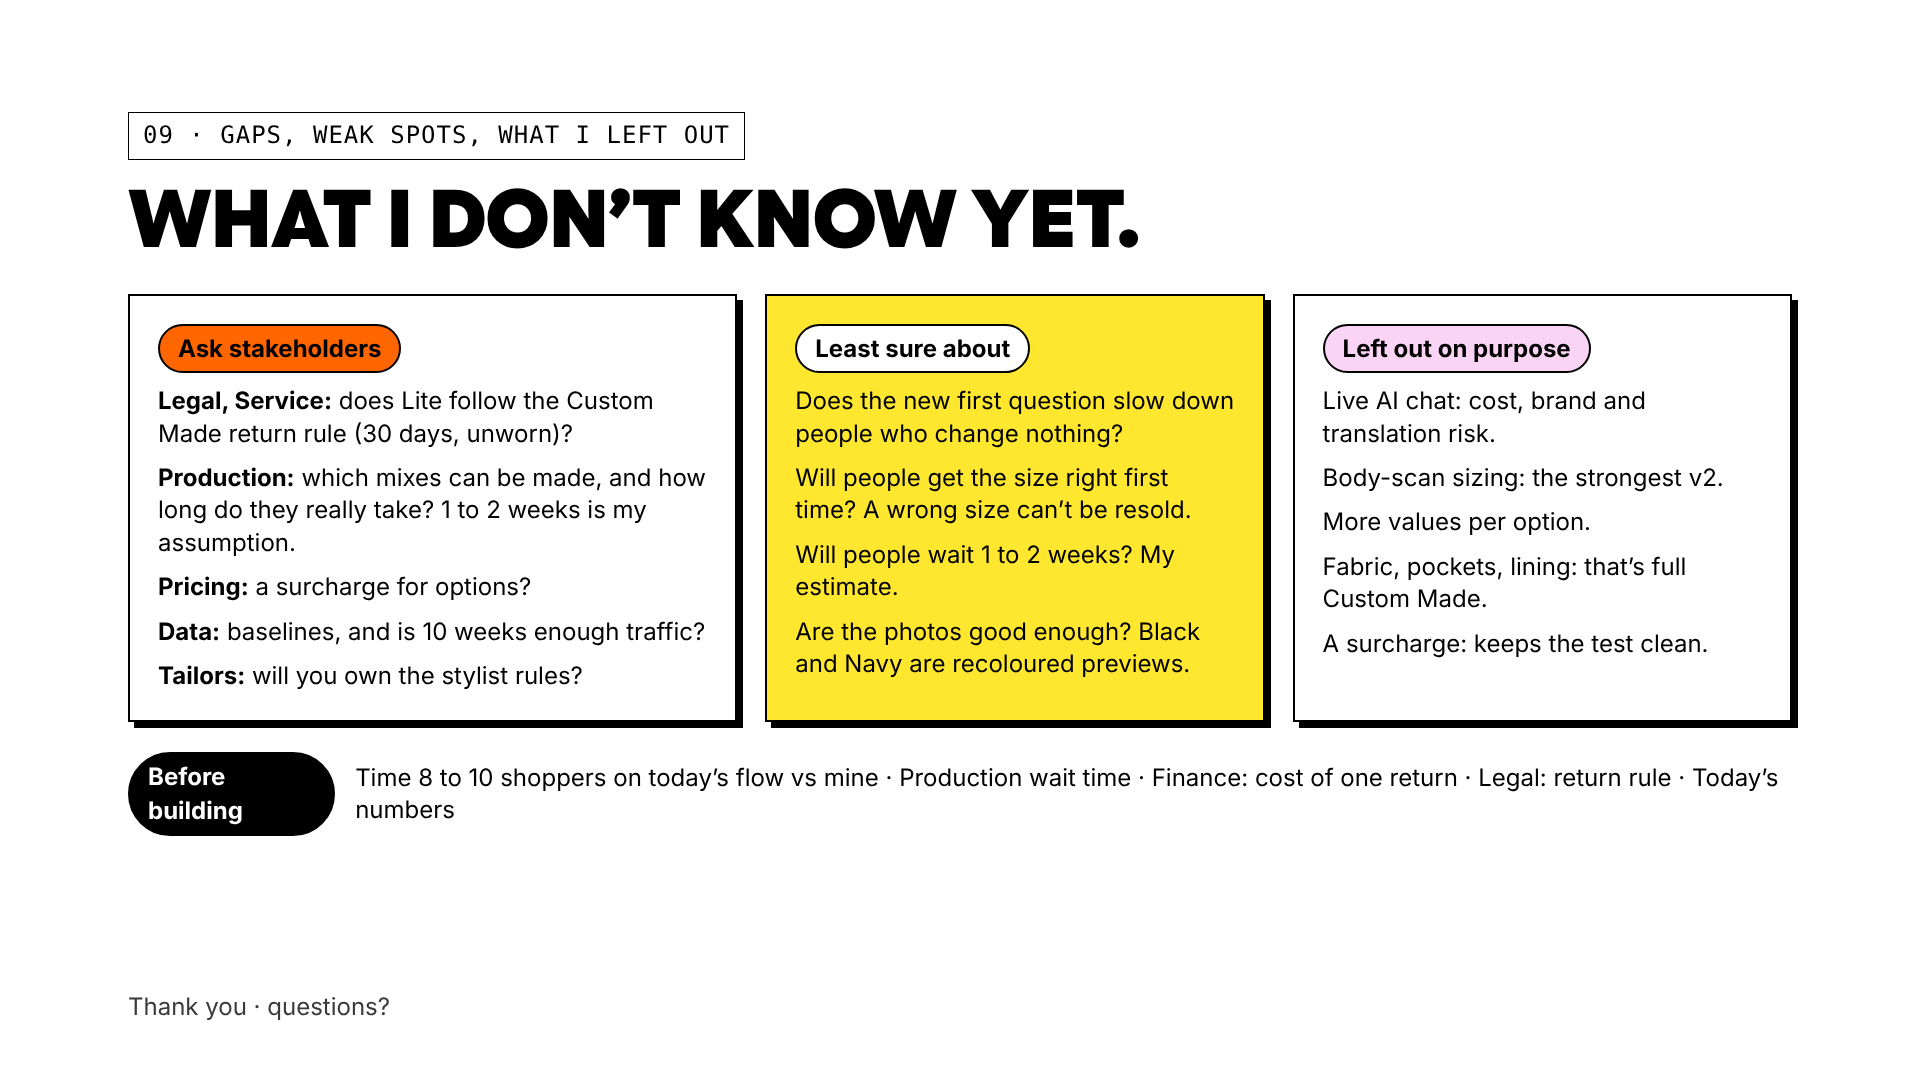
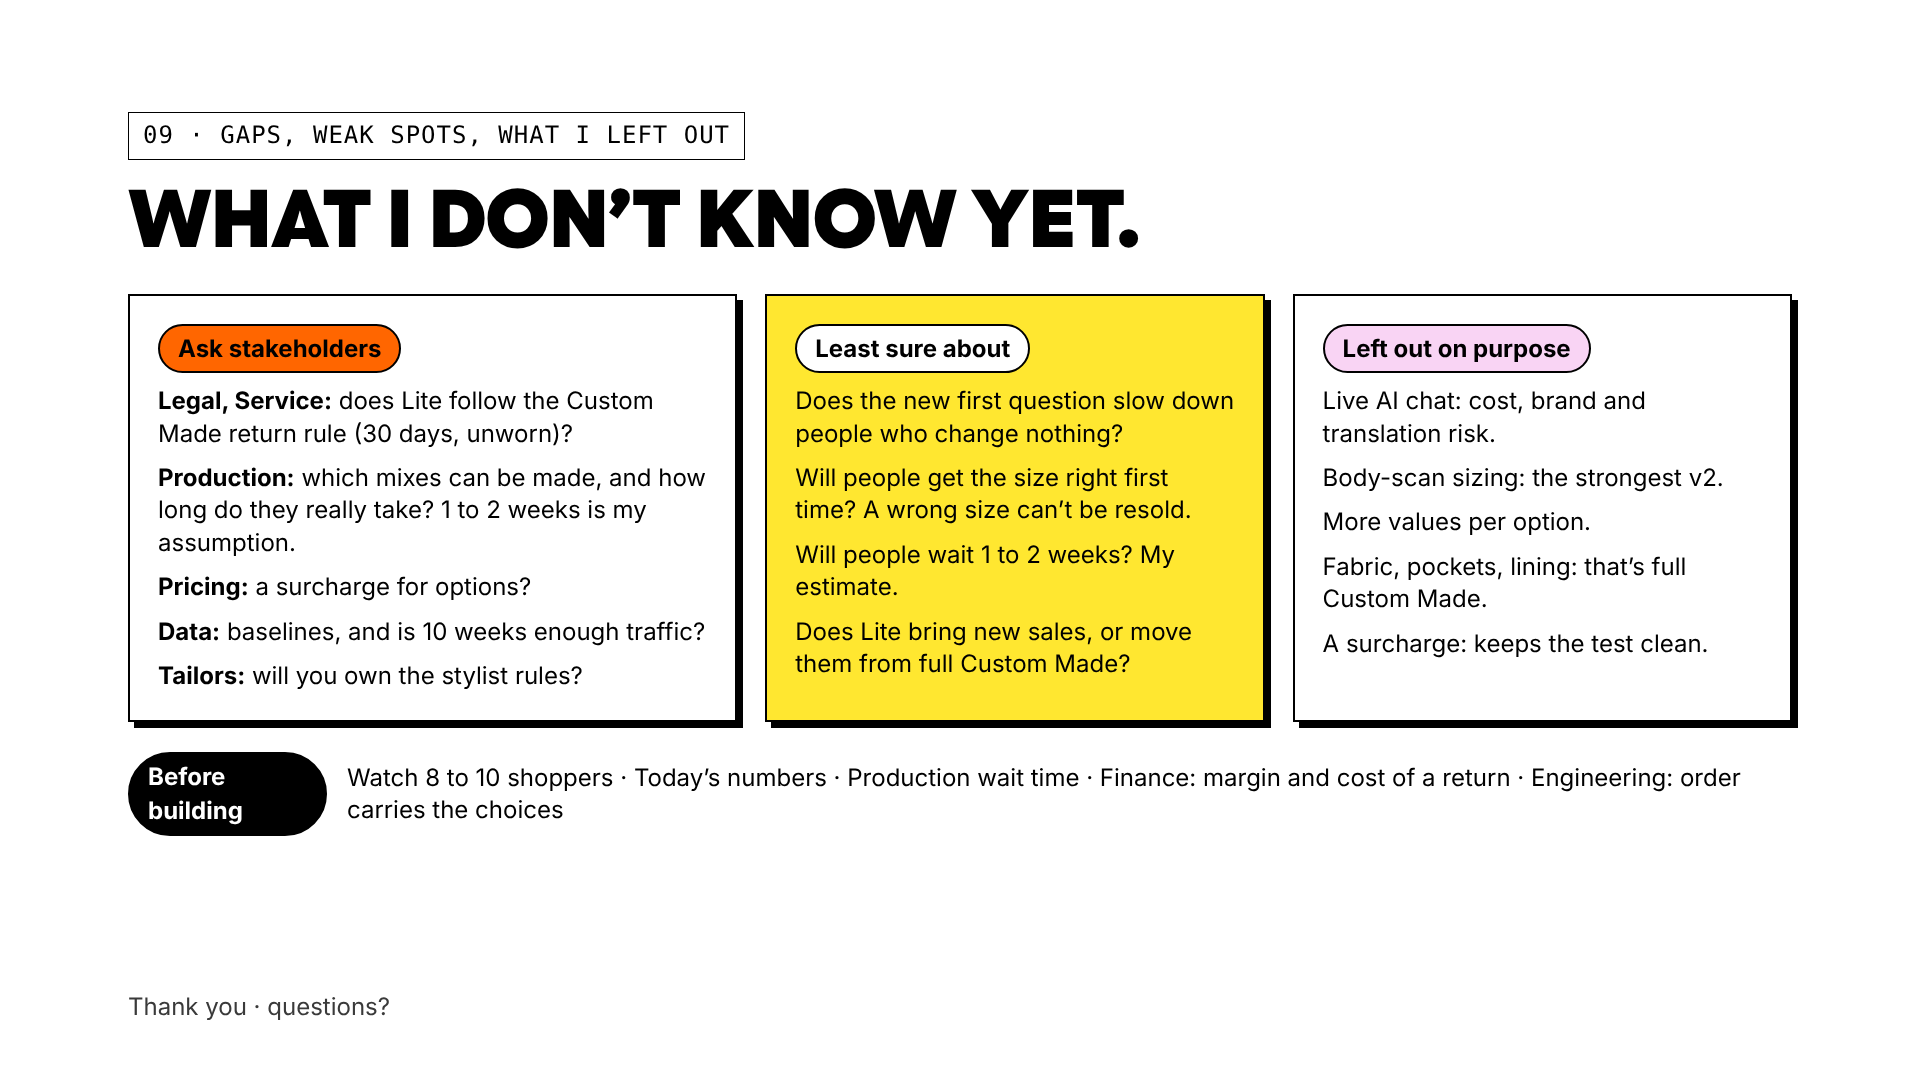
Senior PM pass on pre-build checks and open risks
Claude-Session: https://claude.ai/code/session_01ETR59BjANYhYvmkMk6ZvCT

Changed region(s): [[0.1562, 0.7028, 0.9375, 0.7639], [0.4062, 0.5806, 0.625, 0.6417]]

diff --git a/index.html b/index.html
@@ -731,17 +731,17 @@ function planHtml(){
    '<b>Which options people like.</b> For each detail, how many orders have belt loops or side adjusters, a plain hem or a turn-up, a flat front or a pleat. We also count options people pick and then undo, which can mean the photo or the words are unclear (product_added, option_changed).',
    '<b>What people change after the stylist\'s suggestion (phase 2).</b> Which suggested detail people change most. That tells the tailors which rule to look at first (recommendation_accepted, option_changed).'])}</div>
   <div class="note"><b>Other numbers we check if something looks wrong.</b> Questions to customer service about delivery, returns or "what is this option" · how often people switch a Custom Made suggestion back to the standard details to get it faster (standard_details_selected) · how often people keep the stylist\'s suggestion exactly as it is (recommendation_accepted) · clicks on the store link (store_link_clicked) · time spent in the panel · money lost on Custom Made pairs that come back. We look at every number separately for phone and computer, new and returning customers, each country, and each way of choosing.</div>
-  <div class="note"><b>Check before we build.</b>${li([
-   '<b>Does the new first question slow people down?</b> Most people change nothing, and many skip today\'s fit step. Time 8-10 shoppers buying the pair as shown, on today\'s flow and on mine. If mine is slower: keep "as shown" as the default and make "Change fit or details" a small link.',
-   '<b>Do people understand the choices from the photos?</b> Same session. Pass: 8 of 10 can say what a side adjuster and a turn-up do without help. If not: better photos and words, before we build anything.',
+  <div class="note"><b>Check before we build.</b> The first two are cheap and fast, so they come first. The rest run at the same time.${li([
+   '<b>Where do shoppers hesitate?</b> Watch 8-10 shoppers use the prototype. Do they stall on the new first question? Can 8 of 10 say what a side adjuster and a turn-up do without help? If not: better photos and words, or make "as shown" the default with "Change fit or details" as a small link. Whether the flow is slower, only the A/B test can tell.',
+   '<b>Today\'s real numbers:</b> how many people open the panel, how many skip the fit step, and today\'s order and return rates. These replace my guesses above and decide how long the test runs.',
    '<b>Can every combination be made, and how fast?</b> Ask Production. The 1-2 weeks is my assumption. If it is longer: change the wait everywhere it is shown, and expect more cancellations.',
-   '<b>What does a returned pair cost us?</b> These pairs cannot go back into stock. Finance gives the cost of one return; Legal and Customer Service confirm the return rule in every country. This sets the "pull it back" line for question 3.',
-   '<b>Today\'s real numbers:</b> how many people open the panel, how many skip the fit step, and today\'s order and return rates. These replace my guesses above and decide how long the test runs.'])}</div>
+   '<b>Does the money work?</b> These pairs cost more to make, the price stays €179, and a returned pair cannot be resold. Finance gives the margin per pair and the cost of one return; Legal and Customer Service confirm the return rule in every country. This sets the "pull it back" line for question 3.',
+   '<b>Can our systems carry the choices?</b> Ask Engineering and Operations. The order must pass the waistband, hem and pleat to the factory, and show them in the bag, the order email and returns. Likely the biggest hidden part of the build.'])}</div>
   <div class="note"><b>What I am least sure about.</b>${li([
    '<b>That the new first question costs nothing.</b> It adds a choice for everyone. Orders from people who change nothing must not drop (guardrail above).',
    '<b>That people will get the size right first time.</b> A wrong size on a made-for-you pair cannot be resold. Returns show late, so orders are judged at week 8, returns only at week 15.',
    '<b>That people will wait 1-2 weeks.</b> My own estimate. Watch cancellations and switches back to the standard pair.',
-   '<b>That the photos will be good enough.</b> The prototype uses edited images, and some colours are recoloured. Real photos of every combination are a cost I have not counted.'])}</div>
+   '<b>That Lite brings new sales, not moved ones.</b> Some people who would have bought full Custom Made may buy Lite instead. Watch full Custom Made orders during the test too.'])}</div>
   <div class="note"><b>Questions for each team.</b>${li([
    '<b>Production:</b> can every mix of fit and details be made? How long does a pair made with your choices really take? The 1-2 weeks used everywhere here is my assumption.',
    '<b>Legal and Customer Service:</b> do these pairs follow the Custom Made return rule shown in the prototype (30 days, unworn and unaltered) in every EU country?',

diff --git a/one-pager.html b/one-pager.html
@@ -138,12 +138,13 @@ a{color:inherit}
 
   <section>
     <h2>What I would check before building it</h2>
+    <p>The first two are cheap and fast, so they come first. The rest run at the same time.</p>
     <ul class="list">
-      <li><b>Does the new first question slow people down?</b> Most people change nothing, and many skip today's fit step. I would time 8-10 shoppers buying the pair as shown, on today's flow and on mine. <i>If mine is slower:</i> keep "as shown" as the default and make "Change fit or details" a small link.</li>
-      <li><b>Do people understand the choices from the photos?</b> Same session. Pass: 8 of 10 can say what a side adjuster and a turn-up do without help. <i>If not:</i> better photos and words, before we build anything.</li>
-      <li><b>Can every combination be made, and how fast?</b> Ask Production. The 1-2 weeks on this page is my assumption. <i>If it is longer:</i> change the wait everywhere it is shown, and expect more cancellations.</li>
-      <li><b>What does a returned pair cost us?</b> These pairs cannot go back into stock. Ask Finance for the cost of one return, and Legal and Customer Service whether the return rule (30 days, unworn, not altered) works in every country. This sets the return rate that would make us stop the test.</li>
+      <li><b>Where do shoppers hesitate?</b> Watch 8-10 shoppers use the prototype. Do they stall on the new first question? Can 8 of 10 say what a side adjuster and a turn-up do without help? <i>If not:</i> better photos and words, or make "as shown" the default with "Change fit or details" as a small link. Whether the flow is slower, only the A/B test can tell.</li>
       <li><b>Today's real numbers.</b> How many people open "Select size and fit", how many skip the fit step, and today's order and return rates. These replace my guesses and decide how long the test runs.</li>
+      <li><b>Can every combination be made, and how fast?</b> Ask Production. The 1-2 weeks on this page is my assumption. <i>If it is longer:</i> change the wait everywhere it is shown, and expect more cancellations.</li>
+      <li><b>Does the money work?</b> These pairs cost more to make, the price stays €179, and a returned pair cannot be resold. Ask Finance for the margin per pair and the cost of one return, and Legal and Customer Service whether the return rule (30 days, unworn, not altered) works in every country. This sets the return rate that would make us stop the test.</li>
+      <li><b>Can our systems carry the choices?</b> Ask Engineering and Operations. The order must pass the waistband, hem and pleat to the factory, and show them in the bag, the order email and returns. This is likely the biggest hidden part of the build.</li>
     </ul>
   </section>
 
@@ -153,7 +154,7 @@ a{color:inherit}
       <li><b>That the new first question costs nothing.</b> It adds a choice for everyone, including people who only want their size. In the test, I would watch orders from people who change nothing. They must not drop.</li>
       <li><b>That people will get the size right first time.</b> A wrong size on a made-for-you pair cannot be resold. Returns also show late (1-2 weeks to arrive plus 30 days to return). So orders are judged at week 8, returns only at week 15.</li>
       <li><b>That people will wait 1-2 weeks.</b> That time is my own estimate. In the test, I would watch cancellations and how many people switch back to the standard pair when they see the wait.</li>
-      <li><b>That the photos will be good enough.</b> The prototype uses edited images, and some colours are recoloured. Real photos of every combination in every colour are a real cost that I have not counted.</li>
+      <li><b>That Lite brings new sales, not moved ones.</b> Some people who would have bought full Custom Made may buy Lite instead. In the test, I would also watch full Custom Made orders.</li>
     </ul>
   </section>
 </div>

diff --git a/README.md b/README.md
@@ -175,3 +175,5 @@ The 10 slides as images, in order, are in [deck/](deck/) (slide-01.png to slide-
 - v92: Plan tab aligned with the one-pager: new "Check before we build" (timed test, photo check, Production, cost of a return, real numbers), "What I am least sure about", and why I'll pick comes before Help me choose.
 
 - v93: "For the analysts" note in the Plan tab rewritten in plain words.
+
+- v94: Plan tab checks reordered (cheap and fast first), money and systems checks added, Lite vs full Custom Made added to least sure.
